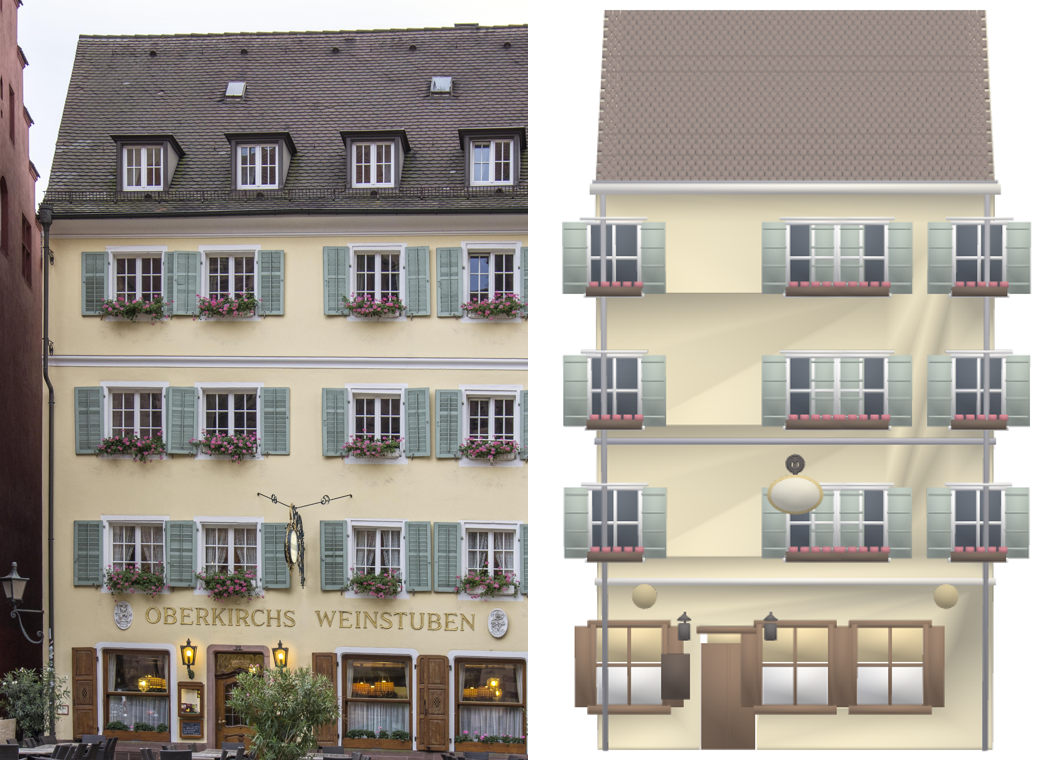
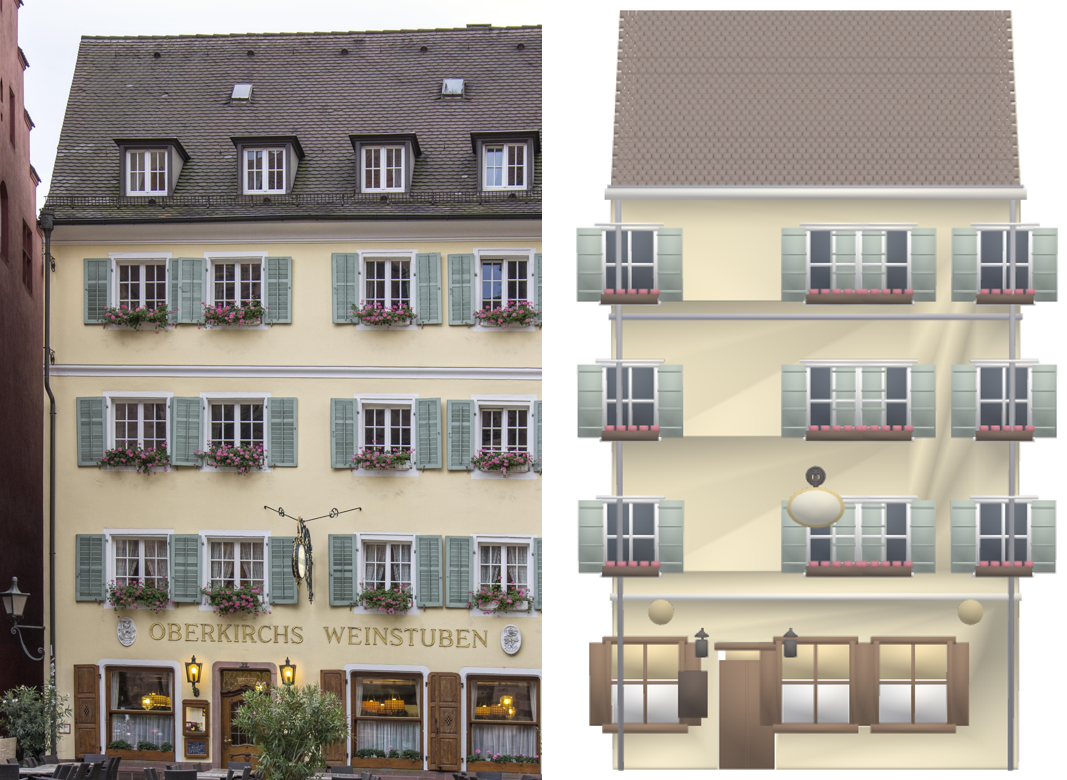
feat: aenderung_check.py - Aenderungs-Waechter gegen Regressionen (harter Lern-Beweis)
Teuerste Fehlerklasse (mehrfach): guten Stand kaputtgeaendert + 'verbessert' gesagt
ohne Render gegen Vorher+Foto zu pruefen. BEWEIS dass gelernt = Mechanismus:
aenderung_check.py legt VORHER|NACHHER|WAS-GEAENDERT(Heatmap)|FOTO nebeneinander,
rahmt groesste Aenderung. Vorgefuehrt an genau dem Oberkirch-Band-Fehler -> Band-Linie
unuebersehbar lokalisiert (obk_aenderung_beweis.png). PFLICHTPROZESS verankert
(memory aenderungs_waechter_pflicht + Fehler-Log F2). Oberkirch auf gutem Stand.

diff --git a/tools/aenderung_check.py b/tools/aenderung_check.py
@@ -1,0 +1,67 @@
+#!/usr/bin/env python3
+"""aenderung_check.py — ÄNDERUNGS-WÄCHTER gegen Regressionen.
+
+Harte Lehre (teuer, mehrfach): ich habe gute Stände kaputtgeändert und „verbessert" behauptet,
+ OHNE den neuen Render gegen den VORHER-Stand UND das Foto zu prüfen. Dieser Wächter erzwingt
+genau das: er legt VORHER | NACHHER | WAS-GEÄNDERT (Heatmap) | FOTO nebeneinander und lokalisiert
+die grösste Änderung, damit man sie NICHT übersehen kann. Pflicht nach JEDER Modell-Änderung.
+
+  python3 tools/aenderung_check.py <vorher_render.png> <nachher_render.png> <foto.jpg> <out.png>
+"""
+import argparse
+import numpy as np
+import cv2
+
+
+def _autocrop(bgr):
+    g = cv2.cvtColor(bgr, cv2.COLOR_BGR2GRAY)
+    m = g < 245
+    ys, xs = np.where(m)
+    if not len(xs):
+        return bgr
+    return bgr[ys.min():ys.max() + 1, xs.min():xs.max() + 1]
+
+
+def main():
+    ap = argparse.ArgumentParser()
+    ap.add_argument("vorher"); ap.add_argument("nachher"); ap.add_argument("foto"); ap.add_argument("out")
+    a = ap.parse_args()
+    A = _autocrop(cv2.imread(a.vorher)); B = _autocrop(cv2.imread(a.nachher))
+    H = 560
+    def rs(x): return cv2.resize(x, (int(x.shape[1] * H / x.shape[0]), H))
+    A = rs(A); B = rs(B)
+    Bw = cv2.resize(B, (A.shape[1], A.shape[0]))
+
+    diff = np.abs(A.astype(int) - Bw.astype(int)).sum(2).astype(np.uint8)
+    changed = (diff > 40).astype(np.uint8)
+    changed = cv2.morphologyEx(changed, cv2.MORPH_OPEN, np.ones((3, 3), np.uint8))
+    frac = float(changed.mean())
+    heat = cv2.applyColorMap((np.clip(diff, 0, 120) * 2).astype(np.uint8), cv2.COLORMAP_JET)
+    heat = cv2.addWeighted(A, 0.45, heat, 0.55, 0)
+    # grösste Änderungsregion einrahmen
+    n, lab, st, _ = cv2.connectedComponentsWithStats(changed)
+    region = None
+    if n > 1:
+        i = 1 + int(np.argmax(st[1:, cv2.CC_STAT_AREA]))
+        x, y, w, h, _ = st[i]
+        cv2.rectangle(heat, (x, y), (x + w, y + h), (255, 255, 255), 3)
+        region = (x, y, w, h)
+
+    foto = rs(_autocrop(cv2.imread(a.foto)) if cv2.imread(a.foto) is not None else A)
+    foto = cv2.resize(foto, (A.shape[1], A.shape[0]))
+    panels = [("VORHER", A), ("NACHHER", B), ("WAS GEAENDERT", heat), ("FOTO", foto)]
+    labeled = []
+    for name, img in panels:
+        c = img.copy(); cv2.rectangle(c, (0, 0), (c.shape[1], 26), (255, 255, 255), -1)
+        cv2.putText(c, name, (6, 19), cv2.FONT_HERSHEY_SIMPLEX, 0.6, (0, 0, 0), 2)
+        labeled.append(c)
+    board = np.hstack(labeled)
+    cv2.imwrite(a.out, board)
+    print(f"Geänderte Fläche: {frac*100:.1f}%  |  grösste Änderungsregion: {region}")
+    print("-> VOR dem 'verbessert'-Sagen: WAS-GEAENDERT-Heatmap anschauen und gegen FOTO prüfen,")
+    print("   ob die Änderung die Realität wirklich BESSER trifft (nicht nur 'anders').")
+    print(f"-> {a.out}")
+
+
+if __name__ == "__main__":
+    main()

diff --git a/tools/bauwerk_generator.py b/tools/bauwerk_generator.py
@@ -236,7 +236,7 @@ def gen_facade(c, p):
 @element("zierband")
 def gen_band(c, p):
     zb = c.measured.get("zierband") if c.measured else None
-    h = (zb or {}).get("h_m") or p.get("h")
+    h = p.get("h") or (zb or {}).get("h_m")           # Config schlägt Messung (Mess-Höhe kann 1 Etage daneben sein)
     if not h:
         return {}
     return {"zierband": slab(c.W / 2, -0.11, float(h), c.W + 0.08, 0.1, float(p.get("height", 0.13)))}
